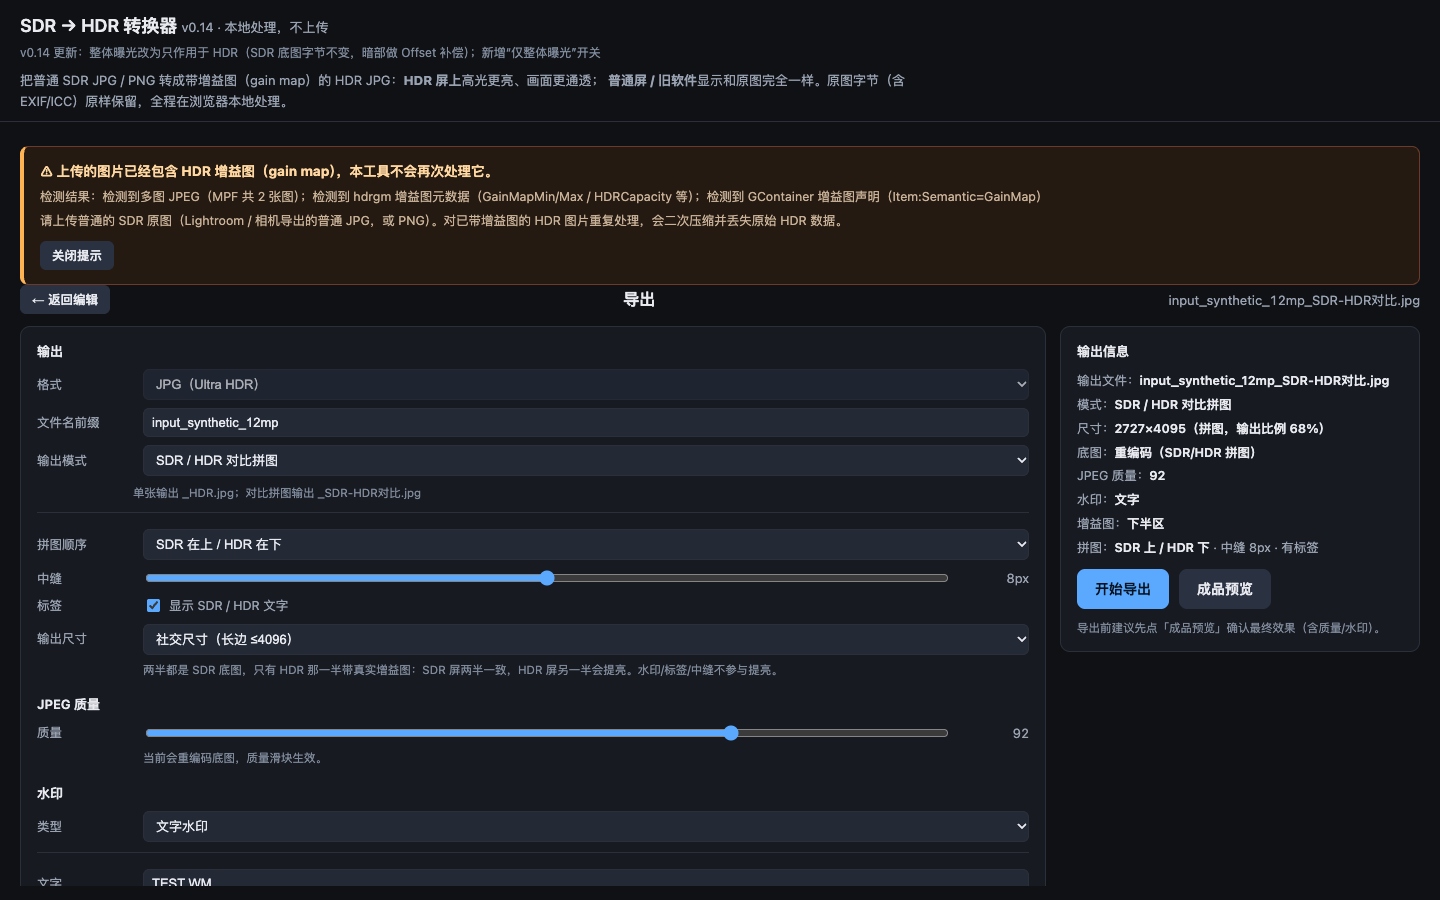
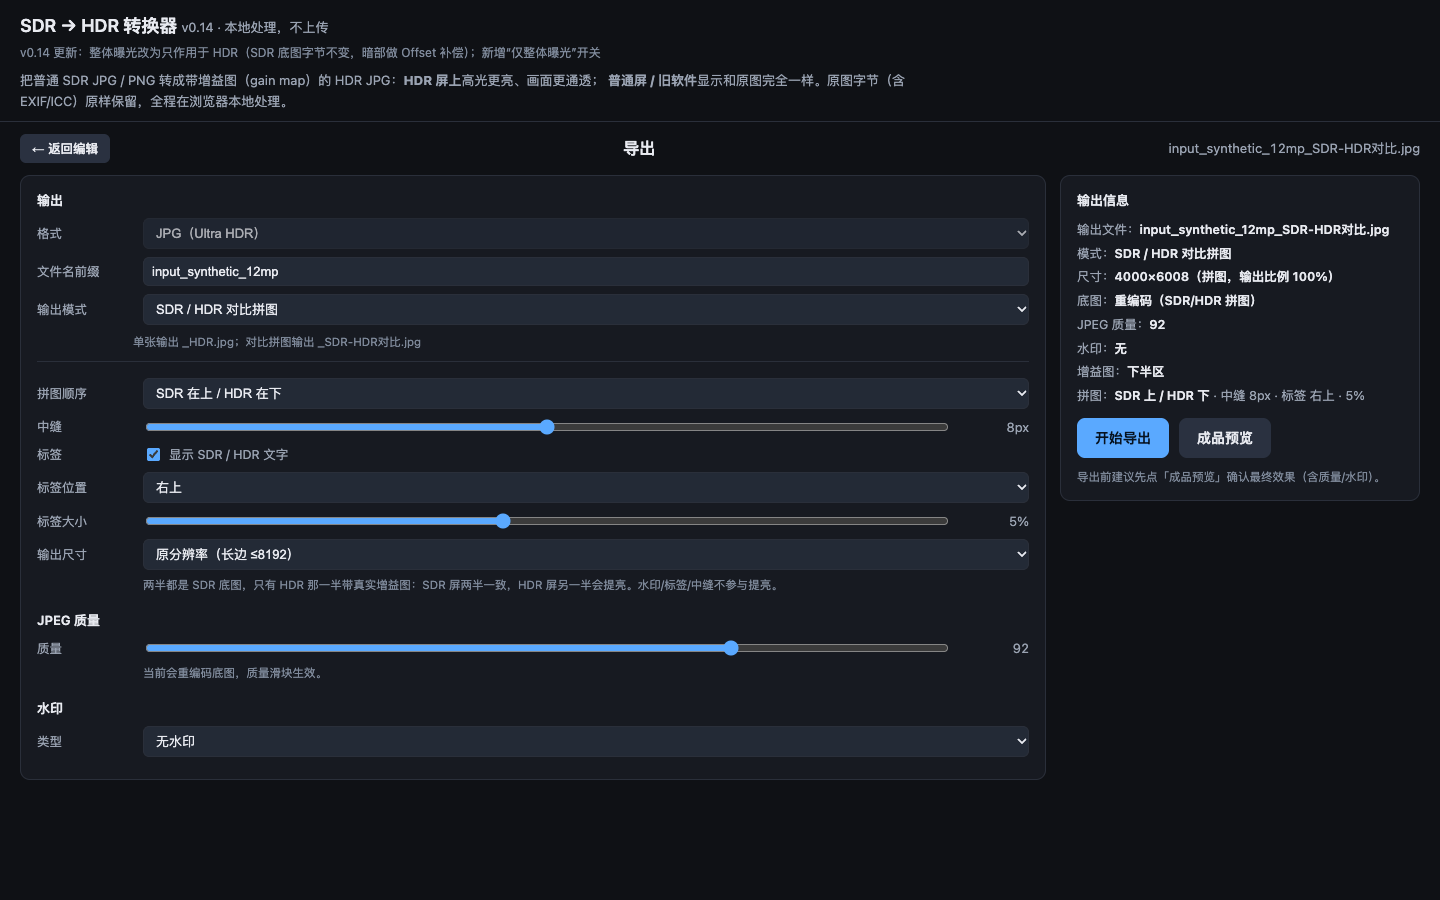
feat(compare): adjustable SDR/HDR label position and size (no version bump)
- Comparison collage labels now support 9-grid position (each label relative to its own half) and size 1-10% (default 3%)
- Label masks respect the chosen position/size, so label pixels never receive HDR gain
- Export info shows label position/size; UI controls added to compare options
- Tests updated; version kept at v0.14 as requested; local commit only

diff --git a/index.html b/index.html
@@ -403,6 +403,12 @@
           </select></div>
           <div class="field range"><label for="compareGap">中缝</label><input type="range" id="compareGap" min="0" max="16" step="1" value="8"><span class="val" id="compareGapVal">8px</span></div>
           <div class="field"><label>标签</label><label class="chk"><input type="checkbox" id="compareLabels" checked> 显示 SDR / HDR 文字</label></div>
+          <div class="field"><label for="compareLabelPos">标签位置</label><select id="compareLabelPos">
+            <option value="tl">左上</option><option value="tc">上中</option><option value="tr">右上</option>
+            <option value="ml">左中</option><option value="mc">居中</option><option value="mr">右中</option>
+            <option value="bl" selected>左下</option><option value="bc">下中</option><option value="br">右下</option>
+          </select></div>
+          <div class="field range"><label for="compareLabelSize">标签大小</label><input type="range" id="compareLabelSize" min="1" max="10" step="0.5" value="3"><span class="val" id="compareLabelSizeVal">3%</span></div>
           <div class="field"><label for="compareSize">输出尺寸</label><select id="compareSize">
             <option value="social" selected>社交尺寸（长边 ≤4096）</option>
             <option value="original">原分辨率（长边 ≤8192）</option>
@@ -1456,6 +1462,9 @@ const els = {
   compareGap: document.getElementById("compareGap"),
   compareGapVal: document.getElementById("compareGapVal"),
   compareLabels: document.getElementById("compareLabels"),
+  compareLabelPos: document.getElementById("compareLabelPos"),
+  compareLabelSize: document.getElementById("compareLabelSize"),
+  compareLabelSizeVal: document.getElementById("compareLabelSizeVal"),
   compareSize: document.getElementById("compareSize"),
   wmOpacity: document.getElementById("wmOpacity"),
   wmOpacityVal: document.getElementById("wmOpacityVal"),
@@ -2017,6 +2026,8 @@ function readExportOpts() {
     order: els.compareOrder ? els.compareOrder.value : "sdr-top",
     gap: clamp(num(els.compareGap, 8), 0, 16),
     labels: els.compareLabels ? els.compareLabels.checked : true,
+    labelPos: els.compareLabelPos ? els.compareLabelPos.value : "bl",
+    labelSizePct: clamp(num(els.compareLabelSize, 3), 1, 10),
     size: els.compareSize ? els.compareSize.value : "social",
   };
   return {
@@ -2151,25 +2162,38 @@ function compareOutputDims(w, h, opts) {
   return { scale, W: outW, halfH, gap: gap2, H: halfH * 2 + gap2, maxLong };
 }
 
-/** 在对比拼图上绘制 SDR / HDR 标签（maskOnly 时白色用于清零蒙版） */
-function drawCompareLabels(ctx, W, halfH, gap, order, maskOnly) {
+/** 在对比拼图上绘制 SDR / HDR 标签（位置/大小可调；maskOnly 时白色用于清零蒙版） */
+function drawCompareLabels(ctx, W, halfH, gap, order, maskOnly, compare) {
   const sdrTop = (order || "sdr-top") === "sdr-top";
   const labels = sdrTop ? ["SDR", "HDR"] : ["HDR", "SDR"];
-  const size = Math.max(14, Math.round(Math.min(W, halfH) * 0.03));
+  const cmp = compare || {};
+  const pos = cmp.labelPos || "bl";
+  const sizePct = clamp((cmp.labelSizePct == null ? 3 : cmp.labelSizePct) / 100, 0.01, 0.15);
+  const size = Math.max(10, Math.round(Math.min(W, halfH) * sizePct));
   const margin = Math.max(8, Math.round(Math.min(W, halfH) * 0.024));
+  const vert = pos[0], horiz = pos[1];
   const tops = [0, halfH + gap];
   ctx.save();
   ctx.font = `700 ${size}px -apple-system, BlinkMacSystemFont, "PingFang SC", sans-serif`;
   ctx.textAlign = "left";
   ctx.textBaseline = "alphabetic";
   for (let i = 0; i < labels.length; i++) {
+    const tw = ctx.measureText(labels[i]).width;
+    let x;
+    if (horiz === "l") x = margin;
+    else if (horiz === "r") x = W - margin - tw;
+    else x = (W - tw) / 2;
+    let y;
+    if (vert === "t") y = tops[i] + margin + size * 0.85;
+    else if (vert === "b") y = tops[i] + halfH - margin;
+    else y = tops[i] + halfH / 2 + size * 0.3;
     ctx.fillStyle = maskOnly ? "#ffffff" : "rgba(255,255,255,0.92)";
     if (!maskOnly) {
       ctx.shadowColor = "rgba(0,0,0,0.55)";
       ctx.shadowBlur = Math.max(3, size * 0.35);
       ctx.shadowOffsetY = Math.max(1, size * 0.06);
     }
-    ctx.fillText(labels[i], margin, tops[i] + halfH - margin);
+    ctx.fillText(labels[i], x, y);
   }
   ctx.restore();
 }
@@ -2198,7 +2222,7 @@ async function buildCompareOutputBytes(bitmap, originalBytes, params, orientatio
   ctx.drawImage(baseCanvas, 0, 0, w, h, 0, topY, dims.W, dims.halfH);
   ctx.drawImage(baseCanvas, 0, 0, w, h, 0, botY, dims.W, dims.halfH);
   if (!opts.compare || opts.compare.labels !== false) {
-    drawCompareLabels(ctx, dims.W, dims.halfH, dims.gap, order, false);
+    drawCompareLabels(ctx, dims.W, dims.halfH, dims.gap, order, false, opts.compare);
   }
   const wm = opts.watermark || { type: "none" };
   const logo = opts.logoBitmap || state.wmLogoBitmap;
@@ -2235,7 +2259,7 @@ async function buildCompareOutputBytes(bitmap, originalBytes, params, orientatio
     mctx.fillRect(0, dims.halfH, dims.W, dims.gap);
   }
   if (!opts.compare || opts.compare.labels !== false) {
-    drawCompareLabels(mctx, dims.W, dims.halfH, dims.gap, order, true);
+    drawCompareLabels(mctx, dims.W, dims.halfH, dims.gap, order, true, opts.compare);
   }
   if (watermarkEffective(wm, logo)) drawWatermark(mctx, dims.W, dims.H, wm, logo, true);
 
@@ -2355,6 +2379,7 @@ function updateExportLabels() {
   if (els.wmMarginVal) els.wmMarginVal.textContent = (opts.watermark.marginPct || 0) + "%";
   if (els.wmOpacityVal) els.wmOpacityVal.textContent = Math.round((opts.watermark.opacity == null ? 0.7 : opts.watermark.opacity) * 100) + "%";
   if (els.compareGapVal) els.compareGapVal.textContent = Math.round(opts.compare.gap) + "px";
+  if (els.compareLabelSizeVal) els.compareLabelSizeVal.textContent = (opts.compare.labelSizePct || 3) + "%";
 }
 
 function updateWatermarkUi() {
@@ -2405,7 +2430,11 @@ function updateExportInfo() {
     `水印：<b>${wmText}</b>`,
     `增益图：<b>${isCompare ? "下半区" : gw + "×" + gh}</b>${isCompare ? "" : "（" + ((params.gainScale || 1) * 100).toFixed(0) + "%）"}`,
   ];
-  if (isCompare) lines.push(`拼图：<b>${opts.compare.order === "hdr-top" ? "HDR 上 / SDR 下" : "SDR 上 / HDR 下"}</b> · 中缝 ${Math.round(opts.compare.gap)}px · ${opts.compare.labels ? "有标签" : "无标签"}`);
+  if (isCompare) {
+    const posNames = { tl: "左上", tc: "上中", tr: "右上", ml: "左中", mc: "居中", mr: "右中", bl: "左下", bc: "下中", br: "右下" };
+    lines.push(`拼图：<b>${opts.compare.order === "hdr-top" ? "HDR 上 / SDR 下" : "SDR 上 / HDR 下"}</b> · 中缝 ${Math.round(opts.compare.gap)}px · ` +
+      (opts.compare.labels ? `标签 ${posNames[opts.compare.labelPos] || "左下"} · ${opts.compare.labelSizePct}%` : "无标签"));
+  }
   if (params.exposureEv > 0.001) lines.push(`整体曝光：<b>+${params.exposureEv.toFixed(1)} EV（仅 HDR）</b>` + (params.exposureOnly ? " · <b>仅整体曝光</b>" : ""));
   if (wmType === "image" && !state.wmLogoBitmap) lines.push(`<span style="color:var(--warn)">⚠ 请先选择 Logo 图片</span>`);
   if (wmType === "text" && !(opts.watermark.text || "").trim()) lines.push(`<span style="color:var(--warn)">⚠ 请输入水印文字</span>`);
@@ -2980,8 +3009,9 @@ function bindUi() {
   [els.exportQuality, els.wmFontSize, els.wmLogoScale, els.wmMargin, els.wmOpacity]
     .forEach((el) => { if (el) el.addEventListener("input", onExportOptsChanged); });
   [els.wmType, els.wmPosition].forEach((el) => { if (el) el.addEventListener("change", onExportOptsChanged); });
-  [els.outputMode, els.compareOrder, els.compareSize].forEach((el) => { if (el) el.addEventListener("change", onExportOptsChanged); });
+  [els.outputMode, els.compareOrder, els.compareSize, els.compareLabelPos].forEach((el) => { if (el) el.addEventListener("change", onExportOptsChanged); });
   if (els.compareGap) els.compareGap.addEventListener("input", onExportOptsChanged);
+  if (els.compareLabelSize) els.compareLabelSize.addEventListener("input", onExportOptsChanged);
   if (els.compareLabels) els.compareLabels.addEventListener("change", onExportOptsChanged);
   if (els.wmText) els.wmText.addEventListener("input", onExportOptsChanged);
   if (els.wmColor) els.wmColor.addEventListener("input", onExportOptsChanged);

diff --git a/tools/test_ui.js b/tools/test_ui.js
@@ -284,7 +284,25 @@ const SHOTS = path.join(ROOT, "tests");
   }));
   console.log("compare UI:", JSON.stringify(cmpUi));
   if (!cmpUi.fields || cmpUi.qualityDisabled || !cmpUi.name.includes("SDR-HDR")) errors.push("compare UI wrong");
-  await shot("ui_v13_export_compare.png");
+
+  // SDR/HDR 标签位置 + 大小
+  await page.select("#compareLabelPos", "tr");
+  await page.evaluate(() => {
+    const el = document.getElementById("compareLabelSize");
+    el.value = "5";
+    el.dispatchEvent(new Event("input", { bubbles: true }));
+  });
+  await new Promise((r) => setTimeout(r, 400));
+  const labelUi = await page.evaluate(() => ({
+    pos: document.getElementById("compareLabelPos").value,
+    size: document.getElementById("compareLabelSizeVal").textContent,
+    info: document.getElementById("exportInfo").innerText.replace(/\s+/g, " "),
+  }));
+  console.log("compare label UI:", JSON.stringify({ pos: labelUi.pos, size: labelUi.size, infoHas: labelUi.info.includes("标签 右上 · 5%") }));
+  if (labelUi.pos !== "tr" || labelUi.size !== "5%" || !labelUi.info.includes("标签 右上 · 5%")) {
+    errors.push("compare label position/size controls wrong");
+  }
+  await shot("ui_v14_compare_labels.png");
   await page.click("#exportStart");
   await page.waitForFunction('document.getElementById("exportStatus").textContent.indexOf("完成") >= 0', { timeout: 120000 });
   await new Promise((r) => setTimeout(r, 1500));

diff --git a/README.md b/README.md
@@ -86,7 +86,7 @@ https://tianqiQWQ.github.io/sdr2hdr-gainmap/
 - **输出模式**：
   - 单张 HDR：普通输出 `原名_HDR.jpg`
   - **SDR / HDR 对比拼图**：`原名_SDR-HDR对比.jpg`，上下两半为同一张 SDR 底图，HDR 那一半带真实增益图；
-    可切换 SDR/HDR 上下顺序、标签、中缝（0–16px）、输出尺寸（社交长边 ≤4096 / 原分辨率长边 ≤8192）
+    可切换 SDR/HDR 上下顺序、标签（九宫格位置 + 大小可调）、中缝（0–16px）、输出尺寸（社交长边 ≤4096 / 原分辨率长边 ≤8192）
 
 ## 输入 / 输出格式
 
